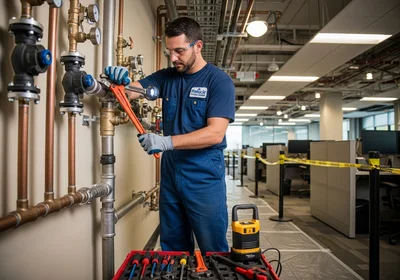
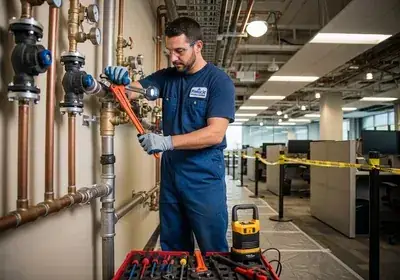
Improve image compression and website accessibility features
Add a new script to recompress images using sharp for better optimization, and enhance the header component by adding ARIA attributes for improved mobile menu accessibility.

Replit-Commit-Author: Agent
Replit-Commit-Session-Id: 01423aae-7ec9-4f18-9b24-b6c25a6357eb
Replit-Commit-Checkpoint-Type: intermediate_checkpoint
Replit-Commit-Screenshot-Url: https://storage.googleapis.com/screenshot-production-us-central1/98b7f64c-b70d-4eb8-adbb-e9a9093d0dc1/01423aae-7ec9-4f18-9b24-b6c25a6357eb/N8ZXRQG

diff --git a/scripts/recompress-service-images.js b/scripts/recompress-service-images.js
@@ -1,0 +1,55 @@
+import sharp from 'sharp';
+import { fileURLToPath } from 'url';
+import { dirname, join } from 'path';
+import { statSync, renameSync } from 'fs';
+
+const __filename = fileURLToPath(import.meta.url);
+const __dirname = dirname(__filename);
+
+const images = [
+  'Commercial_plumbing_services_bd7b6306.webp',
+  'Drain_cleaning_professional_service_e8a953c5.webp',
+  'Leak_repair_service_work_cb3145cc.webp'
+];
+
+async function recompressImages() {
+  for (const image of images) {
+    const inputPath = join(__dirname, '..', 'attached_assets', 'optimized', image);
+    const outputPath = inputPath; // Overwrite the original
+
+    try {
+      const originalStats = statSync(inputPath);
+      const metadata = await sharp(inputPath).metadata();
+      
+      console.log(`\nProcessing ${image}`);
+      console.log(`Original: ${(originalStats.size / 1024).toFixed(1)} KB, dimensions: ${metadata.width}x${metadata.height}`);
+
+      // Resize if needed and compress more aggressively
+      // Service cards display at ~330px width, so 660px (2x for retina) is sufficient
+      await sharp(inputPath)
+        .resize(660, null, { 
+          withoutEnlargement: true,
+          fit: 'inside'
+        })
+        .webp({ 
+          quality: 72, // Lower quality for better compression
+          effort: 6     // Higher effort for better compression
+        })
+        .toFile(outputPath + '.tmp');
+
+      // Get new size
+      const newStats = statSync(outputPath + '.tmp');
+      const savings = ((originalStats.size - newStats.size) / originalStats.size * 100).toFixed(1);
+      
+      console.log(`New: ${(newStats.size / 1024).toFixed(1)} KB (${savings}% reduction)`);
+      
+      // Replace original
+      renameSync(outputPath + '.tmp', outputPath);
+      
+    } catch (error) {
+      console.error(`Error processing ${image}:`, error);
+    }
+  }
+}
+
+recompressImages();

diff --git a/client/src/components/Header.tsx b/client/src/components/Header.tsx
@@ -279,6 +279,8 @@ export default function Header({ onScheduleClick }: HeaderProps) {
           <button
             onClick={() => setMobileMenuOpen(!mobileMenuOpen)}
             className="lg:hidden p-2"
+            aria-label={mobileMenuOpen ? "Close mobile menu" : "Open mobile menu"}
+            aria-expanded={mobileMenuOpen}
             data-testid="button-mobile-menu"
           >
             {mobileMenuOpen ? <X className="w-6 h-6" /> : <Menu className="w-6 h-6" />}
